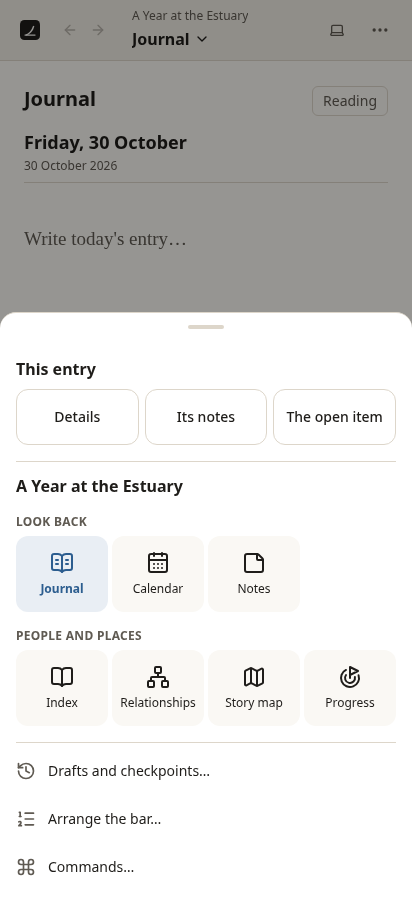
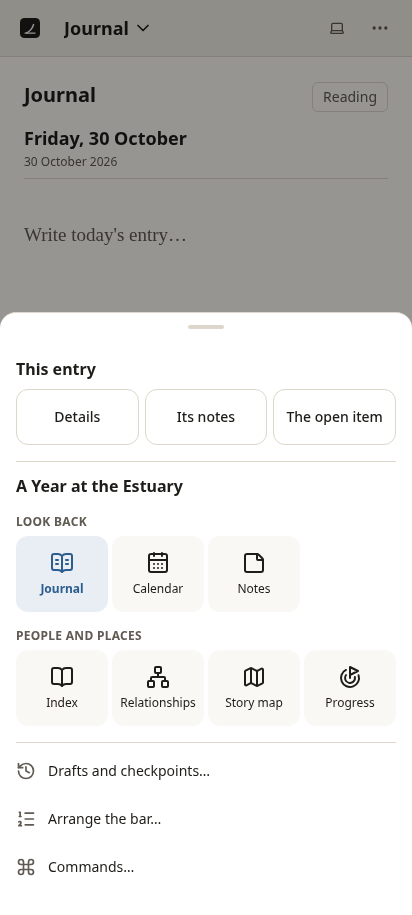
On a phone, the top bar is the page's name: no Back and Forward, and the book's title is in the dropdown
The title and the dropdown were squeezed together, which made the dropdown hard to see as a menu, and
it's how a writer moves around a book on a phone. Android's back already does what the two buttons did.
At md and wider nothing changes. The bar's padding gives a little at this width, so it stays one line
under 64 px with the taller button.

Refs #121

diff --git a/packages/web/src/novel/go-to.tsx b/packages/web/src/novel/go-to.tsx
@@ -43,16 +43,12 @@ export function GoToButton({ novelId, novel, onGitHub }: { novelId: string; nove
   const page = pageOf(novelId, novel, pathname, onGitHub);
   const title = novel.config?.title ?? "Untitled";
   const w = vocabulary(novel.kind);
-  const section = page.section && (page.piece || page.section) ? chapterTitle(novel, page.section) : undefined;
   return (
     <Dialog.Root open={open} onOpenChange={setOpen}>
       <Dialog.Trigger asChild>
-        <button type="button" aria-label={`${page.name}, in ${title}: go to ${w.piece.a}`} className={cn("grid min-h-11 min-w-0 justify-items-start rounded-md px-2 text-left", open && "bg-accent-soft")}>
-          <span className="max-w-full truncate text-xs text-muted">{section && page.piece ? `${title} · ${section}` : title}</span>
-          <span className="flex max-w-full items-center gap-1 font-semibold">
-            <span className="truncate">{page.name}</span>
-            {open ? <ChevronUp className="size-4 shrink-0" aria-hidden /> : <ChevronDown className="size-4 shrink-0" aria-hidden />}
-          </span>
+        <button type="button" aria-label={`${page.name}, in ${title}: go to ${w.piece.a}`} className={cn("flex min-h-12 max-w-full min-w-0 items-center gap-1 rounded-md px-2 text-left text-lg font-semibold", open && "bg-accent-soft")}>
+          <span className="truncate">{page.name}</span>
+          {open ? <ChevronUp className="size-5 shrink-0" aria-hidden /> : <ChevronDown className="size-5 shrink-0" aria-hidden />}
         </button>
       </Dialog.Trigger>
       <Dialog.Portal>
@@ -92,6 +88,7 @@ function GoTo({ novelId, novel, onGitHub, current }: { novelId: string; novel: B
   );
   return (
     <>
+      <p className="truncate text-sm font-semibold">{novel.config?.title ?? "Untitled"}</p>
       <Dialog.Title asChild>
         <label htmlFor={searchId} className="text-sm font-semibold text-muted">
           Go to {w.piece.a}

diff --git a/packages/web/e2e/phone.spec.ts b/packages/web/e2e/phone.spec.ts
@@ -423,3 +423,21 @@ for (const [sample, name, section, piece] of [
     await expect(page.getByRole("heading", { level: 1, name: "Its first" })).toBeVisible();
   });
 }
+
+test("on a phone, the top bar is the page's name, and the dropdown names the book (#115)", async ({ page, app }) => {
+  await app.restart(app.novelRepo("varn"));
+  await launch(page, app);
+  const banner = page.getByRole("banner");
+  await expect(banner.getByRole("group", { name: "History" })).toHaveCount(0);
+  const name = banner.getByRole("button", { name: "Arrival, in The Bridge at Varn: go to a scene" });
+  expect((await name.boundingBox())!.height).toBeGreaterThanOrEqual(48);
+  await name.tap();
+  const goTo = page.getByRole("dialog", { name: "Go to a scene" });
+  await expect(goTo.getByText("The Bridge at Varn", { exact: true })).toBeVisible();
+  await audit(page);
+});
+  await dialog.getByRole("textbox").fill("A chapter whose title is much too long to fit in the top bar of any phone");
+  await dialog.getByRole("button", { name: "Add chapter" }).tap();
+  await expect(page.getByRole("heading", { level: 1, name: /^A chapter whose title/ })).toBeVisible();
+  await fits(page);
+});

diff --git a/packages/web/src/layout.tsx b/packages/web/src/layout.tsx
@@ -41,6 +41,7 @@ export function Shell({
   chrome?: boolean;
   title?: string;
 }) {
+  const narrow = useNarrow();
   const showLibrary = useShowLibrary();
   useEffect(() => {
     document.title = title ? `${title} · Writer` : "writer";
@@ -51,7 +52,7 @@ export function Shell({
         Skip to content
       </a>
       {chrome && (
-      <header className="flex items-center gap-3 border-b border-rule bg-panel px-4 py-2">
+      <header className="flex items-center gap-3 border-b border-rule bg-panel px-4 py-2 max-md:py-1">
         <Link
           to="/"
           onClick={(e) => {
@@ -66,7 +67,8 @@ export function Shell({
           <Logo />
           {!heading && "writer"}
         </Link>
-        <HistoryButtons />
+        {/* On a phone, Android's back does this, and the page's name needs the room (#115). */}
+        {!narrow && <HistoryButtons />}
         {heading && <div className="flex min-w-0 items-center gap-1">{heading}</div>}
         <div className="flex flex-1 items-center justify-end gap-2">
           {actions}

diff --git a/DEVELOPER.md b/DEVELOPER.md
@@ -242,7 +242,7 @@ The rest is in `src-tauri`:
 
 In the page, `onAndroid` (`packages/web/src/platform.ts`) is true in the app. With no folders of the writer's to open on a phone, it leaves out Open a folder. Books live in the app's own storage (`books/` in its data folder), out of a file manager's reach, so a book taken off the shelf is listed under On this phone, to add back or delete (#98). Android's back, the gesture or the button, is the page's (`android-back.ts`): it closes what's open over the page first, as Escape does, then goes back a page, and from the first page leaves the app. Where the engine runs in the page, unsaved text is also kept on the host: `unsaved.json` in the config folder, written through the files port at each change, and read as the engine starts (`packages/web/src/engine/kept.ts`). Android can kill the app at any moment, and the browser's own storage is written to disk some seconds late. The tab's session keeps a copy as well, for when the host is the one that stops. An app killed in the foreground can lose the last 300 ms of typing, the editor's pause. A backgrounded app loses nothing: the plugin tells the page with a `writer-background` event, which hands the editor's text on at once and stops dictation, as hiding a browser's page does. Android's webview leaves the page "visible" in the background, even after its own `onPause`.
 
-At phone width, while a text has the focus, the writing view's status bar becomes the writing bar (#96, `packages/web/src/novel/writing-bar.tsx`), which sits on top of the keyboard as the page ends there. It holds Commands (the palette, through `openOverlay`, which returns the focus and the caret after), Dictate, Undo, Redo, @ (a space first after a word, so the mention menu opens), and the selected text's actions while there's a selection. Its buttons don't take the focus, so the keyboard stays up; Hide the keyboard (its last) takes the focus from the text, which puts the keyboard away. A book has no sidebar at phone width (#100, `packages/web/src/novel/bottom-bar.tsx`): a bar at the bottom holds four pages and More. The first is where the book opens, the other three the kind's `bar` (or the writer's, in book.yaml's `sidebar.bar`, from Arrange the bar…; `barPages` in core). More, a sheet, holds the right sidebar's tabs for the piece being written (the page's own menu items, `page-menu.ts`, which the ⋯ menu then leaves out), every page in the kind's groups, Drafts, Arrange the bar… and Commands…. Its handle (`ui/sheet-handle.tsx`, on Go to too) closes it when dragged away or tapped. The bar gives way to the keyboard (`useKeyboardUp` in `narrow.ts`: the window shorter than it's been, as Android makes it), and the writing bar sits above it while a text has the focus with no keyboard up. The page's name in the top bar opens Go to an entry or a scene (`go-to.tsx`): a search, the modules' shelf actions (Today's entry), and the sections folded, a journal's newest first (the kind's `newestFirst`). A journal's place for today takes the screen to write in, with Earlier entries at its foot. The palette is in the ⋯ menu as Commands… too (`e2e/phone.spec.ts`, by touch at 412 px). The commands for the book's structure (New, Rename, Move, Merge, Delete) are the book's, in `structure-commands.tsx`, not the tree's, so the palette has them on a phone and in focus mode, where the tree isn't mounted.
+At phone width, while a text has the focus, the writing view's status bar becomes the writing bar (#96, `packages/web/src/novel/writing-bar.tsx`), which sits on top of the keyboard as the page ends there. It holds Commands (the palette, through `openOverlay`, which returns the focus and the caret after), Dictate, Undo, Redo, @ (a space first after a word, so the mention menu opens), and the selected text's actions while there's a selection. Its buttons don't take the focus, so the keyboard stays up; Hide the keyboard (its last) takes the focus from the text, which puts the keyboard away. A book has no sidebar at phone width (#100, `packages/web/src/novel/bottom-bar.tsx`): a bar at the bottom holds four pages and More. The first is where the book opens, the other three the kind's `bar` (or the writer's, in book.yaml's `sidebar.bar`, from Arrange the bar…; `barPages` in core). More, a sheet, holds the right sidebar's tabs for the piece being written (the page's own menu items, `page-menu.ts`, which the ⋯ menu then leaves out), every page in the kind's groups, Drafts, Arrange the bar… and Commands…. Its handle (`ui/sheet-handle.tsx`, on Go to too) closes it when dragged away or tapped. The bar gives way to the keyboard (`useKeyboardUp` in `narrow.ts`: the window shorter than it's been, as Android makes it), and the writing bar sits above it while a text has the focus with no keyboard up. The top bar has no Back and Forward at this width (#115). The page's name opens Go to an entry or a scene (`go-to.tsx`): the book's title, a search, the modules' shelf actions (Today's entry), and the sections folded, a journal's newest first (the kind's `newestFirst`). A journal's place for today takes the screen to write in, with Earlier entries at its foot. The palette is in the ⋯ menu as Commands… too (`e2e/phone.spec.ts`, by touch at 412 px). The commands for the book's structure (New, Rename, Move, Merge, Delete) are the book's, in `structure-commands.tsx`, not the tree's, so the palette has them on a phone and in focus mode, where the tree isn't mounted.
 
 Building uses Unity's Android SDK, NDK and JDK, and Rust from its own rustup folder, as `env.sh` says. Nothing is installed system-wide. `npm run android` builds the web app and then a debug-signed APK for a phone (aarch64), and `npm run android:emulator` one for the emulator (x86_64). Both run `packages/mobile/build.sh [aarch64|x86_64]`, which prints where the APK is. `npm run android:install` installs that APK on the attached phone over adb, keeping the app's data, and opens it; it prefers a phone to an emulator, and `ANDROID_SERIAL` picks a device. The generated Gradle project (`src-tauri/gen/android`) isn't committed; the script makes it and points it at platform 36 and target 34.
 

diff --git a/USER.md b/USER.md
@@ -137,7 +137,7 @@ The Android app opens, edits and syncs the same books as your computer, through 
 
 - **The bottom bar** holds four of the book's pages and **More**. A journal has Journal, Calendar, Notes and Index; a novel has its manuscript, Outline, Notes and Bible. *Arrange the bar…* in More chooses the other three, and the choice is kept with the book.
 - **More** is a sheet with what's beside the text on a wide screen (this piece's details, its notes, and the entry at the caret), every page as a large tile, Drafts and checkpoints, *Arrange the bar…* and *Commands…*, the palette.
-- **The page's name** in the top bar opens *Go to an entry* or *Go to a scene*: a search, then the book's sections folded, a journal's newest first.
+- **The page's name** fills the top bar, and opens *Go to an entry* or *Go to a scene*: the book's title, a search, then the book's sections folded, a journal's newest first. There are no Back and Forward buttons at phone width: Android's back does that.
 - **While you're writing**, a bar above the keyboard holds Commands, Dictate, Undo, Redo, `@` and the actions for selected text. Its last button hides the keyboard, and the bottom bar comes back.
 - **Selected text** keeps Android's own toolbar and the keyboard, with *Raise an issue…* added.
 - **Sheets** close when you drag their handle away or tap it. Swipe the right sidebar back toward the edge to close it, or use its button, a tap beside it, or Android's back. Back closes what's open first, then goes back a page.
